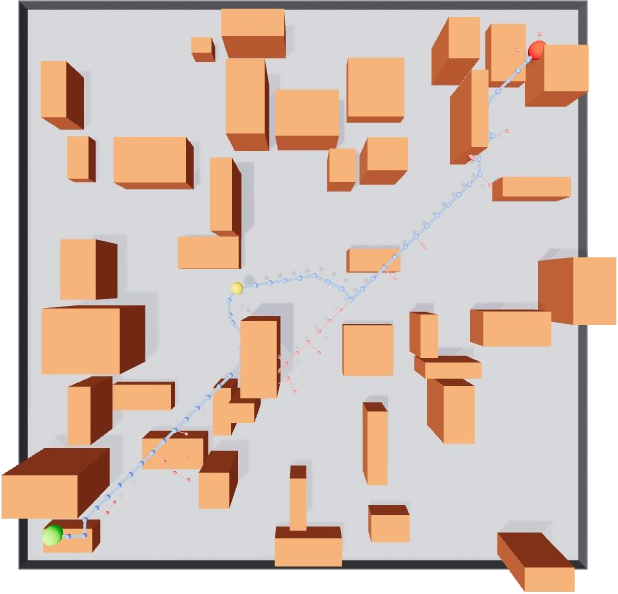
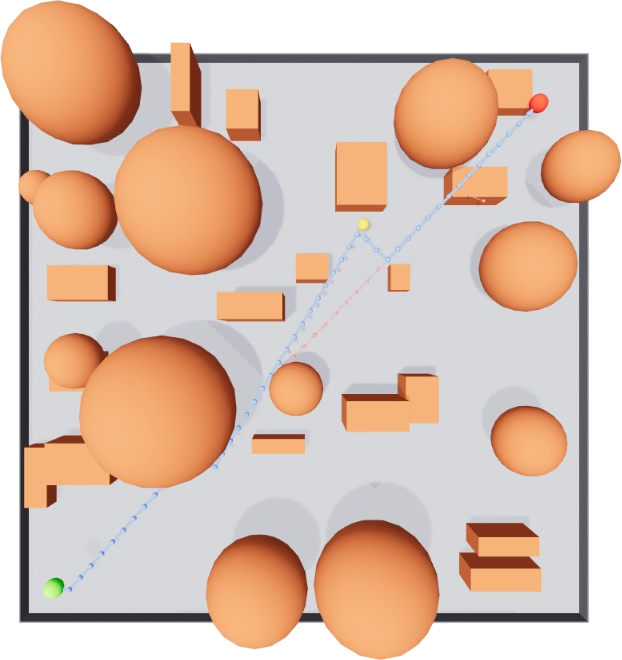
Clarify sampling planner comparisons
The examples now print comparable statistics and the README shows side-by-side outcomes for the sampling planners, so readers can distinguish faster first-solution behavior from graph-based path-quality tradeoffs.

Constraint: Commit only currently staged changes; leave unstaged Informed RRT* edits untouched
Rejected: Add more CLI tuning options | user asked to remove temporary no-show and parameter sweep surfaces
Confidence: high
Scope-risk: narrow
Directive: Keep README comparison numbers aligned with regenerated docs/images outputs when example parameters change
Tested: uv run python -m compileall examples/prm_example.py examples/prm_star_example.py examples/rrg_example.py planning/visualization/rrg_visualizer.py
Tested: uv run examples/prm_example.py --save-image
Tested: uv run examples/prm_star_example.py --save-image
Not-tested: Full test suite

diff --git a/examples/rrt_connect_example.py b/examples/rrt_connect_example.py
@@ -1,6 +1,7 @@
 """RRT-Connect algorithm example with obstacles."""
 
 import argparse
+import time
 
 import numpy as np
 import viser
@@ -36,13 +37,13 @@ def main(seed: int = 42, save_image: bool = False) -> None:
     print(" Generating random obstacles...")
     obstacles = map_env.generate_obstacles(
         server=server,
-        num_obstacles=40,
+        num_obstacles=30,
         min_size=0.5,
         max_size=2.5,
         seed=seed,
         color=(200, 100, 50),
         check_overlap=True,
-        obstacle_type="box",
+        obstacle_type="mixed",
     )
     print(f" Generated {len(obstacles)} obstacles\n")
 
@@ -61,14 +62,16 @@ def main(seed: int = 42, save_image: bool = False) -> None:
         bounds=map_env.get_bounds(),
         collision_checker=ObstacleCollisionChecker(map_env.obstacles),
         config=RRTConnectConfig(
-            max_iterations=5000,
+            max_iterations=2000,
             seed=seed,
         ),
     )
 
     # Plan path
     print(" Planning path with RRT-Connect...\n")
+    planning_start_time = time.perf_counter()
     path = rrt_connect.plan()
+    planning_time = time.perf_counter() - planning_start_time
 
     # Create visualizer
     visualizer = RRTConnectVisualizer(server)
@@ -77,6 +80,7 @@ def main(seed: int = 42, save_image: bool = False) -> None:
     if path is not None:
         print(f"\n Path found with {len(path)} waypoints!")
         print(f"Path length: {rrt_connect.get_path_length():.2f}")
+        print(f"Planning time: {planning_time:.3f} seconds")
         print(f"Total nodes explored: {len(rrt_connect.get_all_nodes())}\n")
 
         # Use visualize_branches for consistency with RRT visualizer
@@ -96,6 +100,7 @@ def main(seed: int = 42, save_image: bool = False) -> None:
 
     else:
         print("\n No path found!")
+        print(f"Planning time: {planning_time:.3f} seconds")
         print("Try increasing max_iterations or decreasing obstacle count.")
 
     # Statistics
@@ -119,8 +124,6 @@ def main(seed: int = 42, save_image: bool = False) -> None:
     print("\nPress Ctrl+C to exit.")
     while True:
         try:
-            import time
-
             time.sleep(0.1)
         except KeyboardInterrupt:
             print("\nShutting down server.")

diff --git a/examples/rrg_example.py b/examples/rrg_example.py
@@ -7,7 +7,6 @@ import viser
 
 from planning.collision import ObstacleCollisionChecker
 from planning.map import Map
-from planning.sampling import GoalBiasedSampler  # , UniformSampler
 from planning.sampling.rrg import RRG, RRGConfig
 from planning.visualization import save_docs_image, setup_camera_top_view
 from planning.visualization.rrg_visualizer import RRGVisualizer
@@ -66,11 +65,10 @@ def main(seed: int = 42, save_image: bool = False) -> None:
         bounds=map_env.get_bounds(),
         collision_checker=collision_checker,
         config=RRGConfig(
-            sampler=GoalBiasedSampler,
             seed=seed,
             step_size=0.5,
             max_iterations=5000,
-            radius_gain=0.8,
+            radius_gain=2.5,
         ),
     )
 
@@ -87,7 +85,7 @@ def main(seed: int = 42, save_image: bool = False) -> None:
 
     if path is not None:
         print(f"\n Path found with {len(path)} waypoints!")
-        # print(f"Path length: {rrg.get_path_length():.2f}")
+        print(f"Path length: {rrg.get_path_length():.2f}")
         print(f"Total nodes in graph: {len(rrg.graph.nodes)}")
         print(f"Total edges in graph: {len(rrg.graph.edges)}\n")
 
@@ -113,6 +111,12 @@ def main(seed: int = 42, save_image: bool = False) -> None:
         print("Try increasing max_iterations or changing the seed.")
         # Visualize the graph even if no path is found
         visualizer.visualize_graph(rrg)
+
+    # Statistics
+    stats = rrg.get_stats()
+    print("\nStatistics:")
+    for key, value in stats.items():
+        print(f"  {key}: {value}")
 
     # Save image if requested
     if save_image:

diff --git a/examples/rrt_example.py b/examples/rrt_example.py
@@ -1,6 +1,7 @@
 """RRT algorithm example with mixed obstacle types."""
 
 import argparse
+import time
 
 import numpy as np
 import viser
@@ -79,11 +80,14 @@ def main(seed: int = 42, save_image: bool = False) -> None:
     print(f"  Goal tolerance: {rrt.goal_tolerance}\n")
 
     # Run planner
+    planning_start_time = time.perf_counter()
     path = rrt.plan()
+    planning_time = time.perf_counter() - planning_start_time
 
     if path is not None:
         print(f"\n Path found with {len(path)} waypoints!")
         print(f"Path length: {rrt.get_path_length():.2f}")
+        print(f"Planning time: {planning_time:.3f} seconds")
         print(f"Total nodes explored: {len(rrt.get_all_nodes())}\n")
 
         # Visualize all paths (success: blue, failure: red)
@@ -103,6 +107,7 @@ def main(seed: int = 42, save_image: bool = False) -> None:
 
     else:
         print("\nNo path found!")
+        print(f"Planning time: {planning_time:.3f} seconds")
         print("Try increasing max_iterations or decreasing obstacle count.")
 
     # Statistics
@@ -126,8 +131,6 @@ def main(seed: int = 42, save_image: bool = False) -> None:
     print("\nPress Ctrl+C to exit.")
     while True:
         try:
-            import time
-
             time.sleep(0.1)
         except KeyboardInterrupt:
             print("\nShutting down server.")

diff --git a/examples/prm_star_example.py b/examples/prm_star_example.py
@@ -70,7 +70,7 @@ def main(seed: int = 42, save_image: bool = False) -> None:
             seed=seed,
             step_size=0.1,
             sample_number=300,
-            radius_gain=5.0,
+            radius_gain=10.0,
             max_retries=5,
             goal_tolerance=0.5,
         ),
@@ -124,6 +124,12 @@ def main(seed: int = 42, save_image: bool = False) -> None:
         print("Try increasing sample_number, max_retries, or radius_gain.")
         # Visualize the roadmap even if no path is found
         visualizer.visualize_graph(prm_star)
+
+    # Statistics
+    stats = prm_star.get_stats()
+    print("\nStatistics:")
+    for key, value in stats.items():
+        print(f"  {key}: {value}")
 
     # Save image if requested
     if save_image:

diff --git a/examples/rrt_star_example.py b/examples/rrt_star_example.py
@@ -72,9 +72,10 @@ def main(seed: int = 42, save_image: bool = False) -> None:
             sampler=GoalBiasedSampler,
             seed=seed,
             step_size=0.5,
-            max_iterations=5000,
-            radius_gain=1.0,
+            max_iterations=2000,
+            radius_gain=5.0,
             goal_bias=0.05,
+            return_first_solution=False,
         ),
     )
 

diff --git a/examples/prm_example.py b/examples/prm_example.py
@@ -119,6 +119,12 @@ def main(seed: int = 42, save_image: bool = False) -> None:
         # Visualize the roadmap even if no path is found
         visualizer.visualize_graph(prm)
 
+    # Statistics
+    stats = prm.get_stats()
+    print("\nStatistics:")
+    for key, value in stats.items():
+        print(f"  {key}: {value}")
+
     # Save image if requested
     if save_image:
 

diff --git a/README.md b/README.md
@@ -3,22 +3,6 @@
 
 A Python 3D path planning library with visualization using Viser. Implements pathplanning algorithms with a unified architecture for easy extension and consistent visualization.
 
-
-## Features
-
-- 🚀 **Unified Architecture**: All planners extend `RRTBase` or `RRGBase` for consistency
-- 🎨 **Simple Visualization**: One API works for all planners - just pass the planner object
-- 🌳 **Multiple Algorithms**: RRT (single-tree), RRT-Connect (bidirectional), RRG (graph-based), RRT* (optimal), Informed RRT* (heuristic-guided optimal), PRM (multi-query), and PRM* (optimal multi-query)
-- 📊 **Detailed Analytics**: Track successful paths and failed collision attempts
-- 📐 **N-Dimensional**: Works with any dimensional state space (2D, 3D, 4D+)
-- 🎯 **Obstacle Avoidance**: Integrated collision detection with boxes and spheres
-- ⚡ **Asymptotic Optimality**: RRT*, Informed RRT*, RRG, and PRM* converge to optimal solutions
-- 🎯 **Informed Sampling**: Informed RRT* uses ellipsoidal heuristic for faster convergence
-- 🗺 **Multi-Query Planning**: PRM and PRM* build reusable roadmaps for efficient path queries
-- 🎬 **Diffusion-based Planning**: Guided reverse-diffusion sampler with value-based trajectory guidance
-- 🔄 **Trajectory One-shot Inference**: Generate full collision-aware trajectories from start/goal constraints in one call
-- 🧭 **Metric-aware Sampling**: RRT-Connect, RRG, RRT*, and PRM* can share Euclidean or terrain Riemannian planning spaces
-
 ## Requirements
 
 - Python >= 3.10
@@ -61,7 +45,15 @@ Faster convergence using dual-tree bidirectional search.
 
 **Paper**: [Kuffner, J. J., & LaValle, S. M. (2000). "RRT-Connect: An efficient approach to single-query path planning"](https://www.cs.cmu.edu/afs/cs/academic/class/15494-s14/readings/kuffner_icra2000.pdf)
 
-<img src="docs/images/rrt_connect_example.png" alt="RRT-Connect Example" width="100%" height="100%"/>
+
+**Example comparison (seed 42, 30 mixed obstacles):**
+
+| RRT | RRT-Connect |
+| --- | --- |
+| <img src="docs/images/rrt_example2.png" alt="RRT Example" width="360" height="376"/> | <img src="docs/images/rrt_connect_example.png" alt="RRT-Connect Example" width="360" height="376"/> |
+| Single tree grows from the start.<br/>First goal at iteration : 403<br/>Path length : 27.04<br/>Planning time : 0.527 seconds<br/>Waypoints : 56<br/>Explored nodes : 319 | Two trees grow from start and goal, then connect.<br/>Trees connected at iteration : 14<br/>Path length : 25.39<br/>Planning time : 0.020 seconds<br/>Waypoints : 52<br/>Total nodes : 77 |
+
+RRT-Connect improves the time to first solution by growing two trees and repeatedly trying to connect them. It does not optimize the path like RRT*, but it can find a feasible connection much faster than single-tree RRT.
 
 **Features:**
 - Bidirectional search (start tree + goal tree)
@@ -81,7 +73,15 @@ An optimal sampling-based path planner that creates a graph structure to find in
 
 **Paper**: [Karaman, S., & Frazzoli, E. (2011). "Sampling-based algorithms for optimal motion planning"](https://arxiv.org/pdf/1105.1186)
 
-<img src="docs/images/rrg_example.png" alt="RRG Example" width="100%" height="100%"/>
+
+**Example comparison (seed 42, 15 mixed obstacles):**
+
+| RRT | RRG |
+| --- | --- |
+| <img src="docs/images/rrt_example.png" alt="RRT Example" width="360" height="376"/> | <img src="docs/images/rrg_example.png" alt="RRG Example" width="360" height="376"/> |
+| Single tree grows from the start.<br/>First goal at iteration : 264<br/>Path length : 27.21<br/>Waypoints : 56<br/>Explored nodes : 250 | Graph grows from the start.<br/>Goal reached at iteration : 264<br/>Path length : 24.19<br/>Waypoints : 34<br/>Graph nodes : 249<br/>Graph edges : 725 |
+
+RRG improves path-search structure rather than time to first solution. It keeps more collision-free connections than RRT, which gives the planner a graph to search for better routes. The tradeoff is more edge checks, more memory, and usually higher planning cost.
 
 **Features:**
 - Builds a graph to connect samples to multiple neighbors, enabling path optimization
@@ -101,7 +101,14 @@ An asymptotically optimal variant of RRT that rewires the tree to find shorter p
 
 **Paper**: [Karaman, S., & Frazzoli, E. (2011). "Sampling-based algorithms for optimal motion planning"](https://arxiv.org/pdf/1105.1186)
 
-<img src="docs/images/rrt_star_example.png" alt="RRT* Example" width="100%" height="100%"/>
+**Example comparison (seed 42):**
+
+| RRT | RRT* |
+| --- | --- |
+| <img src="docs/images/rrt_example.png" alt="RRT Example" width="360" height="376"/> | <img src="docs/images/rrt_star_example.png" alt="RRT* Example" width="360" height="376"/> |
+| Stops at the first feasible path.<br/>First goal at iteration : 264<br/>Path length : 27.21<br/>Waypoints : 56<br/>Explored nodes : 250 | Finds the first path, then continues optimizing.<br/>First goal at iteration : 264<br/>Optimized iterations : 2000<br/>Path length : 23.12<br/>Waypoints : 16<br/>Graph nodes : 1897 |
+
+RRT* uses rewiring and a larger connection radius (`radius_gain=5.0` in this example) to replace long local branches with lower-cost connections. The result is slower than RRT, but the final path is shorter and has fewer waypoints.
 
 **Features:**
 - Asymptotically optimal path planning (converges to optimal solution)
@@ -153,7 +160,14 @@ An asymptotically optimal variant of PRM that uses dynamic connection radius to 
 
 **Paper**: [Karaman, S., & Frazzoli, E. (2011). "Sampling-based algorithms for optimal motion planning"](https://arxiv.org/pdf/1105.1186)
 
-<img src="docs/images/prm_star_example.png" alt="PRM* Example" width="100%" height="100%"/>
+**Example comparison (seed 42, 15 mixed obstacles):**
+
+| PRM | PRM* |
+| --- | --- |
+| <img src="docs/images/prm_example.png" alt="PRM Example" width="360" height="376"/> | <img src="docs/images/prm_star_example.png" alt="PRM* Example" width="360" height="376"/> |
+| Fixed connection radius : 2.0<br/>Sample number : 300<br/>Path length : 28.64<br/>Waypoints : 20<br/>Roadmap nodes : 282<br/>Roadmap edges : 1178 | Dynamic radius gain : 10.0<br/>Sample number : 300<br/>Path length : 24.48<br/>Waypoints : 11<br/>Roadmap nodes : 282<br/>Roadmap edges : 2594 |
+
+PRM uses a fixed connection radius, while PRM* uses a radius that changes with the roadmap size. With a larger radius gain, PRM* finds a shorter path in this example, but it pays for that improvement with more roadmap edges and collision checks.
 
 **Features:**
 - **Asymptotic optimality**: Converges to the optimal path as samples increase
